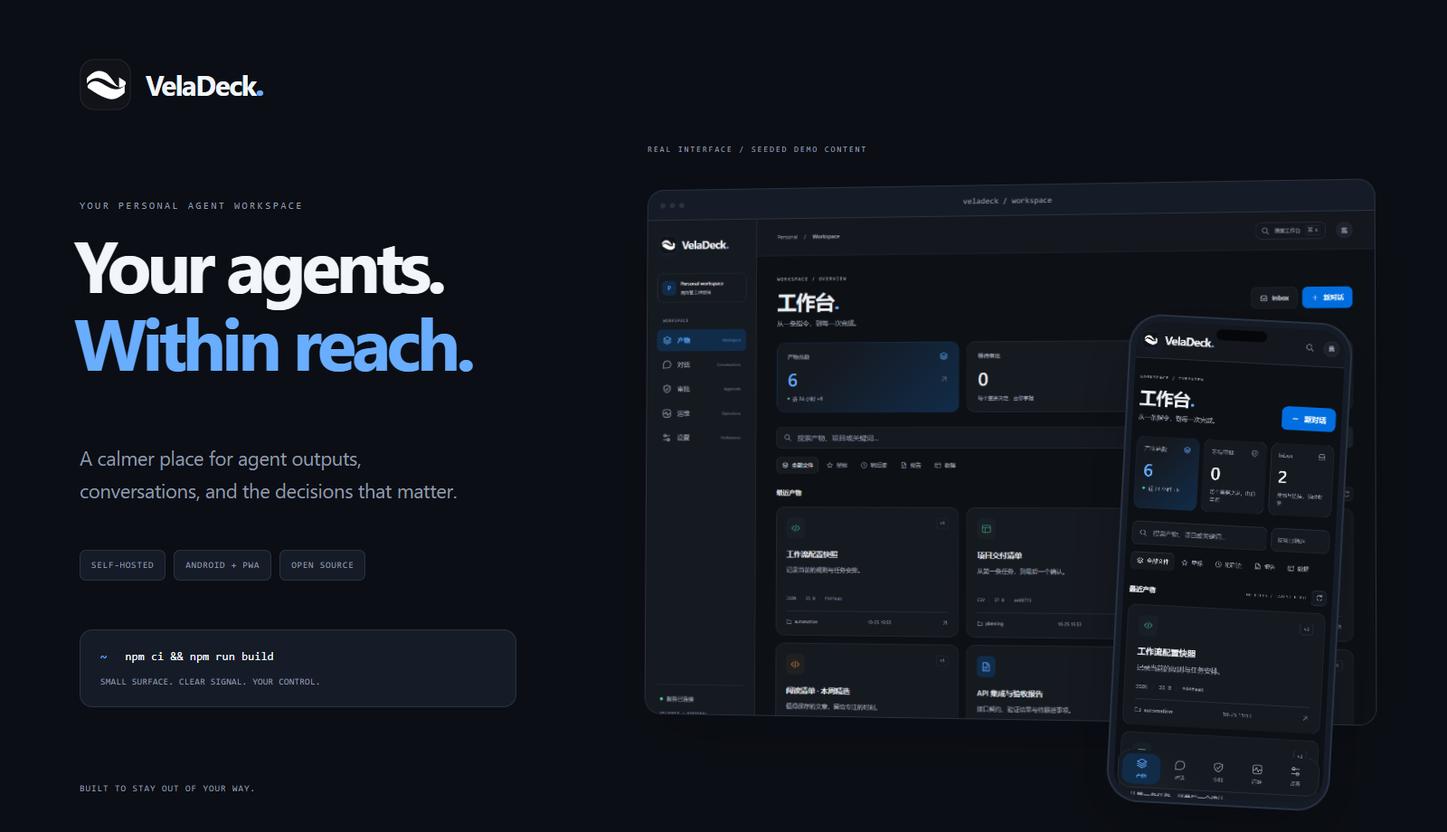
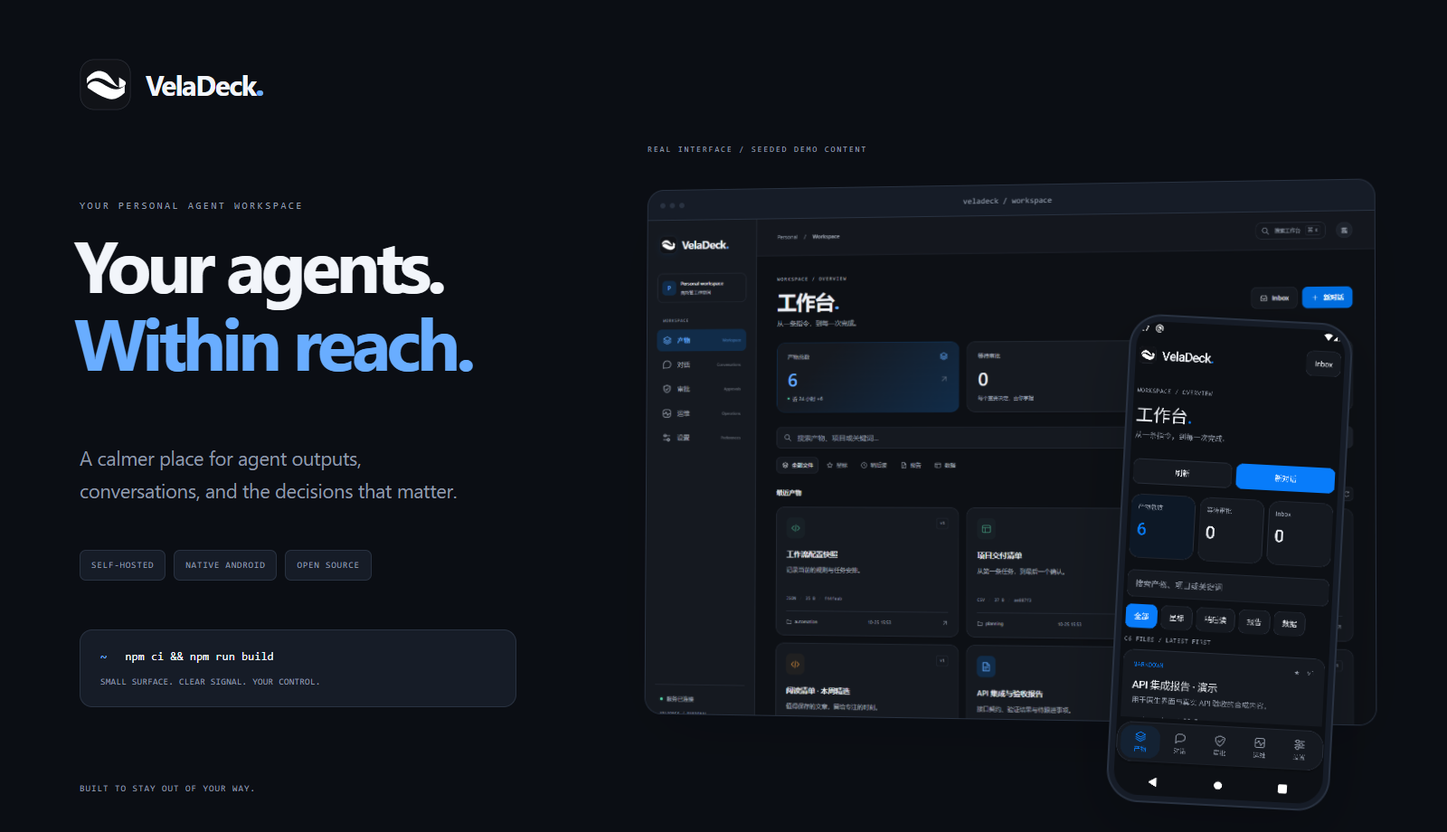
docs(android): publish native screenshots and verified client guidance

diff --git a/server/test/android.test.ts b/server/test/android.test.ts
@@ -11,7 +11,10 @@ test('native passkey association matches the fixed release certificate and publi
     const links = response.json();
     const pinned = readFileSync('android/release-certificate.sha256', 'utf8').trim();
     expect(links).toHaveLength(1);
-    expect(links[0].relation).toEqual(['delegate_permission/common.get_login_creds']);
+    expect(links[0].relation).toEqual([
+      'delegate_permission/common.handle_all_urls',
+      'delegate_permission/common.get_login_creds',
+    ]);
     expect(links[0].target.package_name).toBe('io.github.zuquanzhi.veladeck.preview');
     expect(links[0].target.sha256_cert_fingerprints[0].replaceAll(':', '').toLowerCase()).toBe(
       pinned,

diff --git a/server/src/lib/androidIdentity.ts b/server/src/lib/androidIdentity.ts
@@ -9,7 +9,10 @@ export function credentialOrigins(webOrigin: string) {
 }
 export const androidAssetLinks = [
   {
-    relation: ['delegate_permission/common.get_login_creds'],
+    relation: [
+      'delegate_permission/common.handle_all_urls',
+      'delegate_permission/common.get_login_creds',
+    ],
     target: {
       namespace: 'android_app',
       package_name: androidPackage,

diff --git a/android/app/src/main/java/io/github/zuquanzhi/veladeck/WorkspaceActivity.java b/android/app/src/main/java/io/github/zuquanzhi/veladeck/WorkspaceActivity.java
@@ -590,7 +590,7 @@ public final class WorkspaceActivity extends NativeActivity {
             receive.setOnCheckedChangeListener((v, checked) -> updatePreference(preferences, "notifications", checked, () -> {})); notifications.addView(receive);
             Switch nativeNotify = new Switch(this); nativeNotify.setText("本机后台提醒"); nativeNotify.setTextColor(ui.ink); nativeNotify.setChecked(getSharedPreferences("native_preferences", MODE_PRIVATE).getBoolean("notifications", false));
             nativeNotify.setOnCheckedChangeListener((button, checked) -> toggleNotifications(checked)); notifications.addView(nativeNotify);
-            ui.description(notifications, "后台定时检查进展，实际执行时机由 Android 安排；无需保持电脑上的 App 在线。");
+            ui.description(notifications, "后台按系统周期检查进展，工作台后端需要保持可达。");
             Switch privacy = new Switch(this); privacy.setText("锁屏隐藏内容"); privacy.setTextColor(ui.ink); privacy.setChecked(preferences.optBoolean("lockscreen_hide", true));
             privacy.setOnCheckedChangeListener((v, checked) -> updatePreference(preferences, "lockscreen_hide", checked, () -> {})); notifications.addView(privacy);
             ui.actions(notifications, ui.button("免打扰开始 " + preferences.optString("dnd_start"), false, () -> chooseTime(preferences, "dnd_start")), ui.button("结束 " + preferences.optString("dnd_end"), false, () -> chooseTime(preferences, "dnd_end")));

diff --git a/docs/NATIVE_ANDROID.md b/docs/NATIVE_ANDROID.md
@@ -1,0 +1,48 @@
+# Native Android workspace
+
+From 0.2.0, VelaDeck's Android app uses native Android Views for pairing, artifacts, conversations, approvals, operations, Inbox and settings. It talks directly to the existing HTTPS JSON/SSE API. It does not use a WebView, Custom Tabs or the React site as its workspace. The browser/PWA remains a separate client.
+
+## Install and connect
+
+1. Deploy the current server build at your HTTPS workspace URL. Its API must support device-cookie authentication directly; a browser-only outer login gateway needs an API-compatible entry.
+2. Install the latest Release APK on Android 8.0+ and enter that URL, including its configured base path.
+3. Run `npm run pair` on the server and enter the one-time code in the native pairing screen.
+
+The native app creates its own device session. An earlier browser session is not imported. Server files, conversations and existing paired browser devices remain intact. Fixed-key 0.1.2 APKs can be covered by the new signed APK; temporary-signed 0.1.1 requires one uninstall/manual replacement.
+
+## Native functionality
+
+| Screen | Behavior |
+| :--- | :--- |
+| Artifacts | Search, filters, pagination, native text/image/CSV preview, star/read-later, server-side reading progress, version diff, retention and read-only sharing |
+| Conversations | Native chat UI, persistent SSE events, reconnect/replay, cancellation, document attachments and artifact references |
+| Approvals | Context, expiry/history, normal batch approval and action-bound passkey verification for dangerous approvals |
+| Inbox | Text/link capture, Android text sharing, archive and conversion to an agent task |
+| Operations | Actual host/adapter state, reported usage/budgets, task status and passkey-protected task execution |
+| Settings | Themes, retention, devices, passkeys, privacy, scheduled reminders and in-app APK updates |
+
+Text previews are bounded for phone responsiveness; CSV previews show up to 2,000 rows with native pagination. Complete files can be saved or opened in a separate document viewer. HTML is rendered as static native text, without JavaScript execution or loading a remote page.
+
+## Session and file security
+
+The device cookie is encrypted with AES-GCM using a non-exportable Android Keystore key, with the normalized workspace URL as associated data. Cookies are scoped to that exact configured workspace and sent only to its API. Requests reject redirects. Credentials are not written to logs, URLs, browser storage or exported files; application backup is disabled.
+
+Artifacts and APK updates use separate, non-exported FileProviders and dedicated private cache directories. Only explicit file-open/share/install intents receive temporary read grants. Dangerous operations retain server-side scope-bound, one-time WebAuthn assertions; a dialog alone does not authorize them.
+
+## Native passkeys
+
+The client uses Android Credential Manager. A compatible credential provider and screen lock are required; provider availability varies by Android version/device. The backend recognizes the fixed Release app's Android WebAuthn origin, alongside the configured website origin. It serves the matching public association at `/.well-known/assetlinks.json`.
+
+For an actual deployment, expose that JSON at the **domain root** over HTTPS, returning 200/application-json without an outer login or redirect. A server mounted under `/private/dock` still needs the root association route. See [the Caddy example](Caddyfile.example). No host/proxy/account setting is changed automatically. Debug builds have a separate package/signature and are not authorized by the official Release association.
+
+The public package/certificate mapping is in [androidIdentity.ts](../server/src/lib/androidIdentity.ts); CI verifies that it matches [the release certificate pin](../android/release-certificate.sha256). A fork must configure its own app association. [Android association prerequisites](https://developer.android.com/identity/credential-manager/prerequisites).
+
+## Background reminders
+
+Enable **本机后台提醒** in native settings. Android schedules network checks periodically (nominal minimum period 15 minutes, subject to system power/network policy). Workspace notification preferences, project filters, quiet hours and lock-screen privacy apply; urgent P0 events can bypass quiet hours. These are periodic native reminders, not a claim of an always-connected instant-push service. The HTTPS backend must remain reachable.
+
+## Validation
+
+Native UI acceptance uses an Android emulator and the real backend with synthetic records. An ephemeral certificate is trusted only by that disposable debug fixture; production Release builds use normal platform HTTPS validation. The test drives pairing, artifact changes, SSE, approval forwarding, Inbox, operations, theme changes, encrypted-session restart, scheduled notifications and revocation. Its request audit records methods/API paths only, never cookies, pairing codes or response bodies.
+
+Exact completed runs and limitations are recorded in [VALIDATION.md](VALIDATION.md). Physical passkey/provider behavior and real-world background delivery remain device checks. [APK updates and signing](ANDROID_UPDATES.md).

diff --git a/docs/ANDROID_UPDATES.md b/docs/ANDROID_UPDATES.md
@@ -2,9 +2,9 @@
 
 ## User flow
 
-The 0.1.2+ Release companion checks the public `zuquanzhi/veladeck` GitHub Releases API at launch, at most once per day after a successful check. Published previews are included; drafts, old versions, invalid version tags, other assets and incomplete assets are ignored. An unsuccessful network check is shown as unavailable, never as proof that the app is current. It does not prevent connecting to the workspace.
+The fixed-key Release app checks the public `zuquanzhi/veladeck` GitHub Releases API at launch, at most once per day after a successful check. Published previews are included; drafts, old versions, invalid version tags, other assets and incomplete assets are ignored. An unsuccessful network check is shown as unavailable, never as proof that the app is current. It does not prevent connecting to the workspace.
 
-Check at any time using **检查应用更新** on the native connection screen, or **应用更新** in the workspace browser's menu. The app shows the available version and release notes. Download begins only after confirmation, with progress and retry status. If the native screen is temporarily covered, the prompt waits until it is visible again.
+Check at any time using **检查应用更新** on the native connection screen, or **设置 → 应用更新** in the native workspace. The app shows the available version and release notes. Download begins only after confirmation, with progress and retry status. If the native screen is temporarily covered, the prompt waits until it is visible again.
 
 Before installation the app checks:
 
@@ -14,11 +14,11 @@ Before installation the app checks:
 
 The download stays in the app's private update cache. A non-exported FileProvider grants the system installer temporary read access to that directory only. Android 8+ can ask the user to allow VelaDeck as an installation source; returning from Settings continues the installation if permission was granted. Each installation still requires system confirmation. No silent installation is attempted. Failed downloads/verification preserve the installed app and can be retried.
 
-This updates the Android companion. Web/interface updates still require deploying the new server build, followed by refreshing the phone's workspace.
+This updates the native Android interface and client functionality. Backend and browser/PWA changes still require deploying the new server build. The Android app directly calls the API; it does not open the browser workspace.
 
 ## One-time migration from 0.1.1
 
-Versions through 0.1.1 used a CI-generated development key. Android cannot cover-install the new signing identity over that version. Uninstall the old VelaDeck companion, manually install the 0.1.2 Release APK, and enter the workspace URL again. Browser-side device pairing and backend files remain on their existing origin/server; no server data is deleted by uninstalling the companion. Future fixed-key Release APKs can update in place.
+Versions through 0.1.1 used a CI-generated development key. Android cannot cover-install the new signing identity over that version. Uninstall the old VelaDeck companion, manually install the latest native Release APK, and enter the workspace URL again. Browser-side device pairing and backend files remain on their existing origin/server; no server data is deleted by uninstalling the companion. Future fixed-key Release APKs can update in place.
 
 Release package: `io.github.zuquanzhi.veladeck.preview`. Development artifacts use `.dev`, disable in-app installation updates and never substitute for published releases.
 
@@ -41,3 +41,7 @@ The workflow restores the keystore only into the runner's temporary directory, b
 Pure-Java tests cover version ordering/no downgrade, release URL/digest/size restrictions, redirect trust, byte count/checksum failures and package/certificate identity. GitHub Actions compiles/lints Android and exercises the fixed signing configuration before publishing. Physical-device installer permissions and behavior are reported separately, not inferred from a successful build.
 
 References: [Android app updates](https://developer.android.com/google/play/app-updates), [installation-source permission](https://developer.android.com/reference/android/content/pm/PackageManager#canRequestPackageInstalls()), [FileProvider](https://developer.android.com/reference/androidx/core/content/FileProvider), [GitHub Releases API](https://docs.github.com/en/rest/releases/releases).
+
+## Android 10 certificate compatibility
+
+Android 10's APK archive parser collects certificates only when the legacy `GET_SIGNATURES` flag is requested. The native client requests that flag together with modern `SigningInfo`, and falls back to legacy signature metadata when necessary. Empty or mismatched certificates are still rejected. This fixes the false `APK_SIGNER` rejection observed during the 0.1.2 emulator upgrade test; fixed signing keys were not changed. [Android 10 framework source](https://android.googlesource.com/platform/frameworks/base/+/android-10.0.0_r1/core/java/android/content/pm/PackageManager.java).

diff --git a/README.md b/README.md
@@ -53,11 +53,11 @@ Light when you want clarity. Dark when you want focus.
 </picture>
 
 <p align="center">
-  <img src="docs/screenshots/workspace-mobile.png" alt="Light mobile workspace" width="30%">
+  <img src="docs/screenshots/native-workspace-light.png" alt="Native Android light workspace" width="30%">
   &nbsp;&nbsp;
-  <img src="docs/screenshots/workspace-mobile-dark.png" alt="Dark mobile workspace" width="30%">
+  <img src="docs/screenshots/native-workspace-dark.png" alt="Native Android dark workspace" width="30%">
   &nbsp;&nbsp;
-  <img src="docs/screenshots/pairing.png" alt="Secure device pairing" width="30%">
+  <img src="docs/screenshots/native-pairing.png" alt="Native Android device pairing" width="30%">
 </p>
 
 <sub>Screenshots show the real application with clearly seeded demonstration content. They contain no personal reports or live account balances.</sub>
@@ -70,14 +70,14 @@ Light when you want clarity. Dark when you want focus.
 2. [Download the Android preview](https://github.com/zuquanzhi/veladeck/releases), or install the PWA from a compatible browser.
 3. Enter your workspace URL and pair your device with a one-time code.
 
-Android **8.0+**. The companion uses browser-backed tabs to retain the browser's TLS, cookies and passkey boundary. For background notifications, install the PWA as well.
+Android **8.0+**. The app uses native Android screens and talks directly to the HTTPS API. Pairing, artifacts, streamed conversations, approvals, Inbox, operations and settings stay inside the app. Device sessions are encrypted with Android Keystore. Optional background reminders use Android-scheduled checks; the system controls their timing. [Native client details →](docs/NATIVE_ANDROID.md)
 
 <details>
 <summary>App updates and preview signing</summary>
 
-From **0.1.2**, Release APKs use a fixed signing key. The app checks published GitHub previews once a day on launch. Use **Check app updates** on the connection screen, or **应用更新 / App updates** in the workspace browser menu, to check at any time. Downloads require confirmation, verify their checksum and signing identity, and open the Android installer. Android may first ask you to allow VelaDeck to install updates.
+From **0.1.2**, Release APKs use a fixed signing key. The app checks published GitHub previews once a day on launch. Use **Check app updates** on the connection screen, or **设置 → 应用更新 / Settings → App updates** in the native workspace, to check at any time. Downloads require confirmation, verify their checksum and signing identity, and open the Android installer. Android may first ask you to allow VelaDeck to install updates.
 
-**One-time migration:** 0.1.1 used a temporary development key. Uninstall that old companion and manually install 0.1.2 once; enter your workspace URL again. Your server data is unaffected. Subsequent releases can install over this version. The separate `.preview` package ID is retained; app-store distribution is not configured. See [update and signing details](docs/ANDROID_UPDATES.md).
+**One-time migration:** 0.1.1 used a temporary development key. Uninstall that old companion and manually install the latest native preview once; enter your workspace URL again. Your server data is unaffected. The native app needs its own one-time pairing, independent of the old browser session. Fixed-key 0.1.2 installs can be covered by the new APK. Subsequent releases can install over this version. The separate `.preview` package ID is retained; app-store distribution is not configured. See [update and signing details](docs/ANDROID_UPDATES.md).
 
 </details>
 
@@ -107,14 +107,15 @@ In another terminal, run `npm run pair`. For local verification, open [localhost
 
 ```mermaid
 flowchart LR
-    Phone["Android / PWA"] -->|HTTPS| Workspace["VelaDeck"]
+    Phone["Native Android"] -->|HTTPS JSON / SSE| Workspace["VelaDeck API"]
+    Web["Browser / PWA"] -->|HTTPS| Workspace
     Workspace --> Store[("SQLite + files")]
     Workspace --> Bridge["Agent bridge"]
     Bridge --> Agent["DSH process"]
     Tasks["Task scripts"] -->|Loopback ingest| Workspace
 ```
 
-One Node service. React on the front. SQLite underneath.
+Native Android Views on your phone. React in the browser. One Node API and SQLite underneath.
 
 The first adapter is a configurable DSH subprocess bridge. Other backends can be added at the adapter boundary; they are not presented as already connected. [Protocol and decisions →](docs/DECISIONS.md)
 
@@ -142,6 +143,7 @@ Verification covers strict TypeScript, ESLint, automated security/workflow tests
 | Read | Purpose |
 | :--- | :--- |
 | [Getting started](docs/GETTING_STARTED.md) | Install, configure, pair and self-host |
+| [Native Android](docs/NATIVE_ANDROID.md) | App architecture, secure pairing and device requirements |
 | [Validation](docs/VALIDATION.md) | What has actually been tested |
 | [Design decisions](docs/DECISIONS.md) | Scope, security choices and remaining work |
 | [Changelog](CHANGELOG.md) | Changes by milestone and release |

diff --git a/docs/DECISIONS.md b/docs/DECISIONS.md
@@ -10,7 +10,7 @@ The original design remains unchanged in SPEC.md. These decisions resolve contra
 - Six-hour notification deduplication is represented by a separate key/time record; persisted event IDs remain unique across windows.
 - Read-only share tokens are stored as SHA-256 hashes, not reusable plaintext bearer credentials.
 - PDF content is downloaded to the device viewer. This preserves `object-src 'none'`.
-- The Android companion uses [Android Custom Tabs](https://developer.chrome.com/docs/android/custom-tabs/guide-get-started) to retain browser cookie, TLS and passkey boundaries. It accepts Android text shares and configurable HTTPS workspace addresses. It does not embed a remote-code-enabled WebView or run a backend on the phone.
+- The first Android previews through 0.1.2 used Custom Tabs. The user explicitly requested a native app on 2026-10-25. Version 0.2.0 replaces that workspace with Android Views and authenticated HTTPS JSON/SSE requests. Browser/PWA remains available separately. Native cookies are Keystore-encrypted, passkeys use Credential Manager, and public app/domain association is pinned to the fixed release certificate. See NATIVE_ANDROID.md.
 - APKs through 0.1.1 were development-signed. From 0.1.2, `.preview` Release APKs use a fixed signing identity in Actions Secrets, a pinned public certificate fingerprint and verified in-app updates. The old temporary-signed client requires one manual replacement. Debug builds now use `.dev`. No signing private key is committed or included in release assets. See ANDROID_UPDATES.md.
 - Backend adapters fail explicitly when not configured. Live DSH protocol, Linux remote probes, quota commands and device push have not been substituted by demo successes.
 
@@ -23,3 +23,5 @@ The patched runtime dependencies require Node 22. The supported runtime and CI b
 2026-10-25 rebrand: the user selected VelaDeck and the abstract Current symbol. GitHub repository identity and release history are preserved through a repository rename. Existing `runotter.db` files and the `ad_device` authentication cookie remain compatible; a fresh data directory uses `veladeck.db`. The internal `runotter-base` HTML marker is retained to avoid breaking configured base paths. Existing deployments should retain their DATA_DIR and HTTPS origin; no live service or credential configuration is automatically changed.
 
 2026-10-25 Android updates: published preview releases are intentionally included, since this project currently distributes previews. Use the release collection rather than GitHub’s stable-only latest endpoint. Android system confirmation is retained; the app does not install silently or update the self-hosted server.
+
+2026-10-25 native scope: reuse the existing API and security rules while replacing the Android UI. The client has no WebView or Custom Tabs workspace and does not load the React bundle. HTML artifacts are read through native static text rendering; document files can be opened/saved through scoped Android intents. Native reminders use opt-in JobScheduler checks instead of introducing a hosted push account. Background delivery timing, physical passkeys and the deployed domain association require device/host verification.

diff --git a/docs/RELEASE_NOTES.md b/docs/RELEASE_NOTES.md
@@ -1,10 +1,10 @@
-VelaDeck 0.1.2 — signed in-app updates.
+VelaDeck 0.2.0 — the native Android workspace.
 
-- Automatically checks published GitHub Releases once a day at launch, including previews. Check manually from the connection screen or the workspace menu's “应用更新” entry.
-- Shows the new version and notes, downloads after confirmation with progress/retry, verifies SHA-256, file size, package/version and signing identity, then opens Android's system installer.
-- Handles the Android 8+ installation-source permission step; returning from Settings continues when permission is granted. The system still asks for installation confirmation.
-- Release APKs now use a fixed signing identity stored in GitHub Actions Secrets. The workflow checks its public certificate fingerprint before publication and never falls back to an ephemeral key. Development builds use a separate `.dev` package.
+- Replaced the browser-backed companion with native Android screens for pairing, artifacts, conversations, approvals, operations, Inbox and settings. The app connects directly to authenticated HTTPS JSON/SSE APIs.
+- Added Keystore-encrypted device sessions, native previews and scoped file save/share, streaming conversations, approval forwarding, themes, device management and opt-in system-scheduled reminders.
+- Native passkeys use Android Credential Manager. The server serves the fixed app's public domain association; real deployments must expose it at the HTTPS domain root. Physical provider/passkey validation remains a device check.
+- Retained fixed-signature in-app updates. Fixed Android 10 falsely rejecting downloaded APKs when its archive parser returned empty signing metadata. Checksums, package/version and matching certificates remain required before opening the system installer.
 
-ONE-TIME MIGRATION: if you installed the temporary-signed 0.1.1 preview, uninstall that old companion and manually install `VelaDeck-0.1.2-preview.apk`, then enter your workspace URL again. This does not delete server-side data. Later fixed-key versions can update in place through the app.
+Install `VelaDeck-0.2.0-preview.apk` on Android 8.0+. Fixed-key 0.1.2 installs can be covered by this APK. For temporary-signed 0.1.1, uninstall that old companion first. Enter your HTTPS workspace URL and pair the native app once; existing server data and browser devices are preserved.
 
-Android 8.0+. The companion still connects to your own HTTPS workspace; no hosted backend is included. This remains preview software. Live DSH, remote adapters, physical-device push/passkeys and production deployment remain separate integration checks. Signature/package metadata and SHA-256 checksums are attached.
+The native UI is delivered through APK updates. Server/PWA changes require a server deployment. Background reminders use Android-scheduled checks and require a reachable backend; they are not instant push. No hosted AI backend or local LLM is included. This remains preview software; physical-device passkeys/background behavior, live DSH and deployment checks are recorded separately in docs/VALIDATION.md.

diff --git a/docs/GETTING_STARTED.md b/docs/GETTING_STARTED.md
@@ -4,13 +4,15 @@
 
 A self-hosted, mobile-first workspace for agent artifacts, conversations, approvals, notifications, and operations. 单用户智能体手机工作台。
 
-**0.1.2 adds signed in-app updates.** The core workflows are implemented; live infrastructure and physical-device integration checks remain open. [Validation](VALIDATION.md) · [Design decisions and remaining scope](DECISIONS.md).
+**0.2.0 adds the native Android workspace.** The core workflows are implemented; live infrastructure and physical-device integration checks remain open. [Validation](VALIDATION.md) · [Design decisions and remaining scope](DECISIONS.md).
 
 ## Android APK
 
-Download `VelaDeck-0.1.2-preview.apk` from [Releases](https://github.com/zuquanzhi/veladeck/releases). Android 8.0+ and a compatible browser are required. Enter your self-hosted HTTPS workspace URL, then enter a pairing code generated on the server. The APK is a browser-backed companion with an Android share target; it does not provide a hosted server or run an LLM on your phone.
+Download `VelaDeck-0.2.0-preview.apk` from [Releases](https://github.com/zuquanzhi/veladeck/releases). Android 8.0+ is required. Enter your HTTPS API workspace URL, then pair with a one-time code generated on the server. All workspace screens are native Android Views; the APK does not contain a hosted server or local LLM.
 
-Release APKs from 0.1.2 use a fixed signing key and the same `.preview` package ID. The app checks GitHub daily at launch; check manually from the connection screen or the workspace menu’s **应用更新** entry. Downloads and installation require user confirmation. Existing temporary-signed 0.1.1 clients require a one-time uninstall/manual installation of 0.1.2, then re-entering the workspace URL. Subsequent releases can upgrade in place. Server data is unaffected. For background push, install the PWA from Chrome as well. [Update/signing guide](ANDROID_UPDATES.md).
+Release APKs use the fixed `.preview` signing identity introduced in 0.1.2. The app checks GitHub daily at launch; check manually from the connection screen or **Settings → 应用更新**. Downloads and installation require user confirmation. Native UI/function updates arrive through APK updates. Backend/PWA updates still require deploying the server build.
+
+Temporary-signed 0.1.1 installs require one uninstall/manual replacement. Fixed-key 0.1.2 can be covered by the native APK. The native app pairs independently of the old browser session; server data and the existing browser session are preserved. Native reminders use opt-in system periodic checks. Passkeys require a compatible credential provider and domain association. [Native setup](NATIVE_ANDROID.md) · [Update/signing guide](ANDROID_UPDATES.md).
 
 ### Upgrading from RunOtter
 

diff --git a/docs/VALIDATION.md b/docs/VALIDATION.md
@@ -56,3 +56,13 @@ Release publication verification:
 - [Release 40177047399](https://github.com/zuquanzhi/veladeck/actions/runs/40177047399) succeeded for [v0.1.2](https://github.com/zuquanzhi/veladeck/releases/tag/v0.1.2), source `c4f4f64`, published 2026-10-25 08:34:09 UTC. Main verification 40177044594 also passed.
[2 lines of base64/hex data omitted]
+
+## 0.2.0 native Android workspace
+
+- Local strict TypeScript, ESLint and **17 backend/application tests** passed, including the native passkey association/certificate contract.
+- [Verification 40197421011](https://github.com/zuquanzhi/veladeck/actions/runs/40197421011) passed backend build/smoke plus Android compile, lint and **10 native unit tests** for `959ff2d`.
+- [Native Android smoke 40197421158](https://github.com/zuquanzhi/veladeck/actions/runs/40197421158) **passed on Android API 29**. It used native Views and the real backend over HTTPS, with clearly synthetic data and a debug-only ephemeral certificate.
+- The emulator drove native pairing, artifact search/detail/star, real SSE conversation, approval forwarding to the waiting fixture subprocess, Inbox submission/archive, operations, dark-theme persistence, Keystore-encrypted session/restart, a forced system-scheduled notification and device revocation. The request audit contains API methods/paths only and confirms no browser page/assets were loaded.
+- Native screenshots in docs/screenshots are actual emulator captures. The earlier failed smoke runs were diagnosed: Android 10 needed the legacy certificate-collection flag, then the UI driver needed to account for Switch accessibility ON/OFF suffixes. Neither was bypassed with a weaker signature rule.
+
+Physical passkeys/provider and domain-association behavior, real-device background timing, production deployment and live DSH remain unverified. The emulator upgrade workflow uses a version-stamped test baseline with the same fixed key; it does not claim that the historical temporary-signed 0.1.1 APK can cover-install a new key. Final release and signed-upgrade results are appended after completion.

diff --git a/docs/PROJECT_CONTEXT.md b/docs/PROJECT_CONTEXT.md
@@ -5,8 +5,8 @@ GitHub：https://github.com/zuquanzhi/veladeck。
 
 VelaDeck 是本对话主任务，首版发布名为 RunOtter，原始开发包代号为 Agent Dock。用户要求开发初版、推送 GitHub 并通过 Actions/Release 生成 APK，随后要求重做界面、Logo 和 README。用户已选定 VelaDeck 新名称与 B · Current 流动带图形。
 
-M0–M7 核心工作流与 M8 分发代码已实现，v0.1.0 已通过 GitHub Actions 发布。v0.1.1 已统一新品牌、浅深色界面、响应式导航、矢量图标、Android 连接页及中英文 README。当前 v0.1.2 增加固定发布签名、应用内检查 GitHub Release、校验下载及系统安装器升级；最终验证与发布结果见 VALIDATION.md 和 GitHub Release。
+M0–M7 核心工作流与 M8 分发代码已实现，v0.1.0 已通过 GitHub Actions 发布。v0.1.1 已统一新品牌、浅深色界面、响应式导航、矢量图标、Android 连接页及中英文 README。v0.1.2 已增加固定发布签名与应用内升级。用户随后明确要求手机端为真正原生 App；当前 v0.2.0 使用 Java/Android Views、HTTPS JSON/SSE、Keystore 会话与 Credential Manager，取代原浏览器壳，同时修复 Android 10 签名读取兼容性；最终验证与发布结果见 VALIDATION.md 和 GitHub Release。
 
 运行基线：Node 22 LTS。安全修复所需的版本变更见 DECISIONS.md。原始开发包与来源校验记录保留在 Axiom 资源目录，未复制邮件信息或设备运行凭据到此仓库。GitHub 仓库通过更名保留历史；现有数据库与浏览器会话兼容策略见 GETTING_STARTED.md。
 
-本版是可自托管的预览版，APK 使用 Android Custom Tabs 连接用户填写的 HTTPS 地址。未部署云端服务，未验证真实 DSH、手机后台推送和硬件通行密钥。其余原始规格差距和真机清单见 DECISIONS.md、VALIDATION.md 与 README.md。
+本版是可自托管的预览版，APK 使用原生页面直接访问用户填写的 HTTPS API 地址。未部署云端服务，未验证真实 DSH、手机后台推送和硬件通行密钥。其余原始规格差距和真机清单见 DECISIONS.md、VALIDATION.md 与 README.md。
